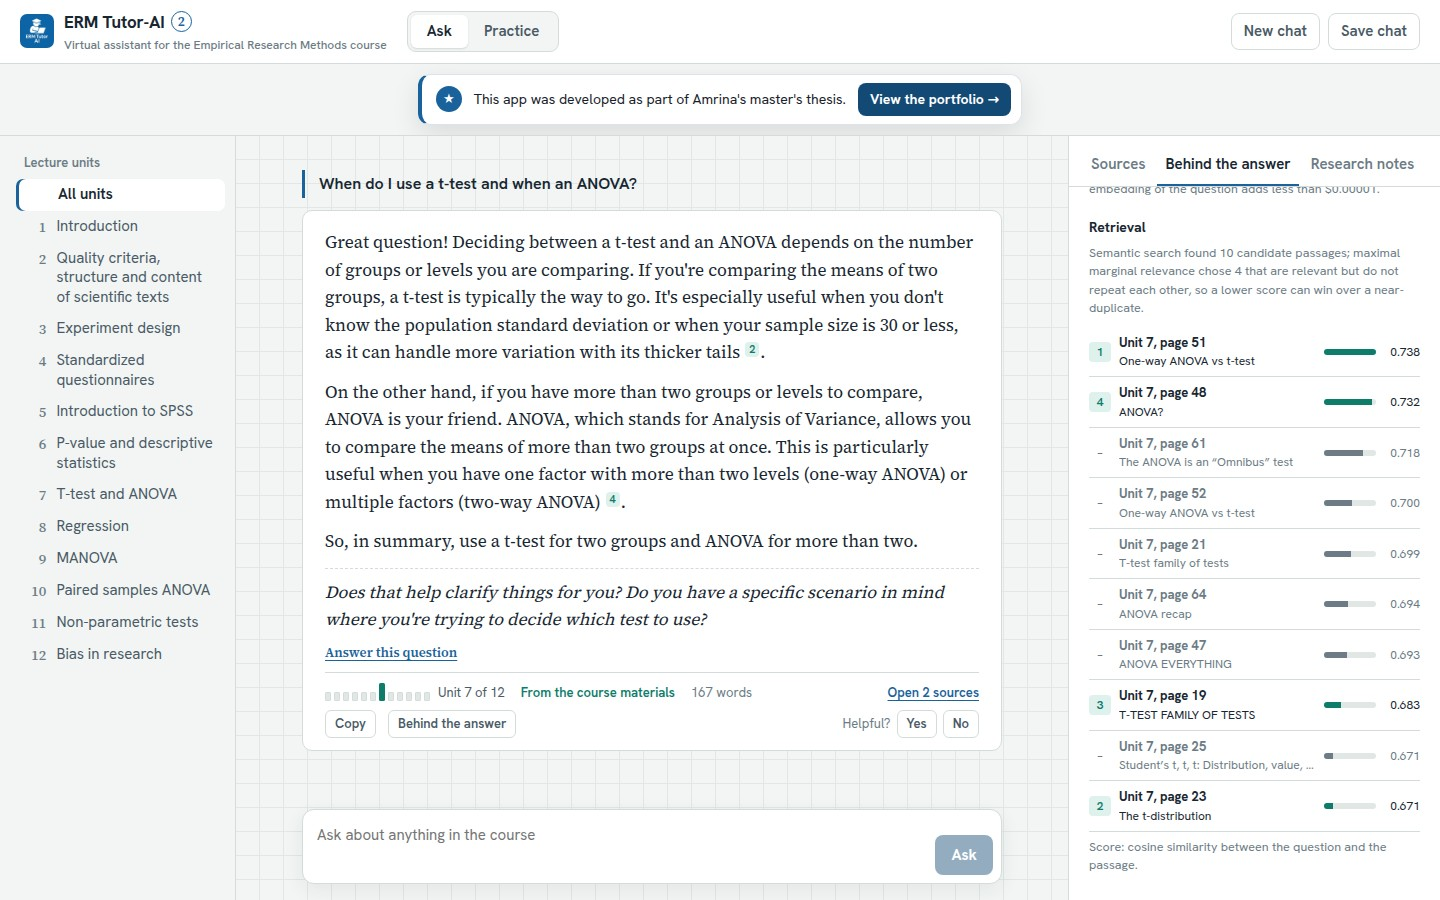
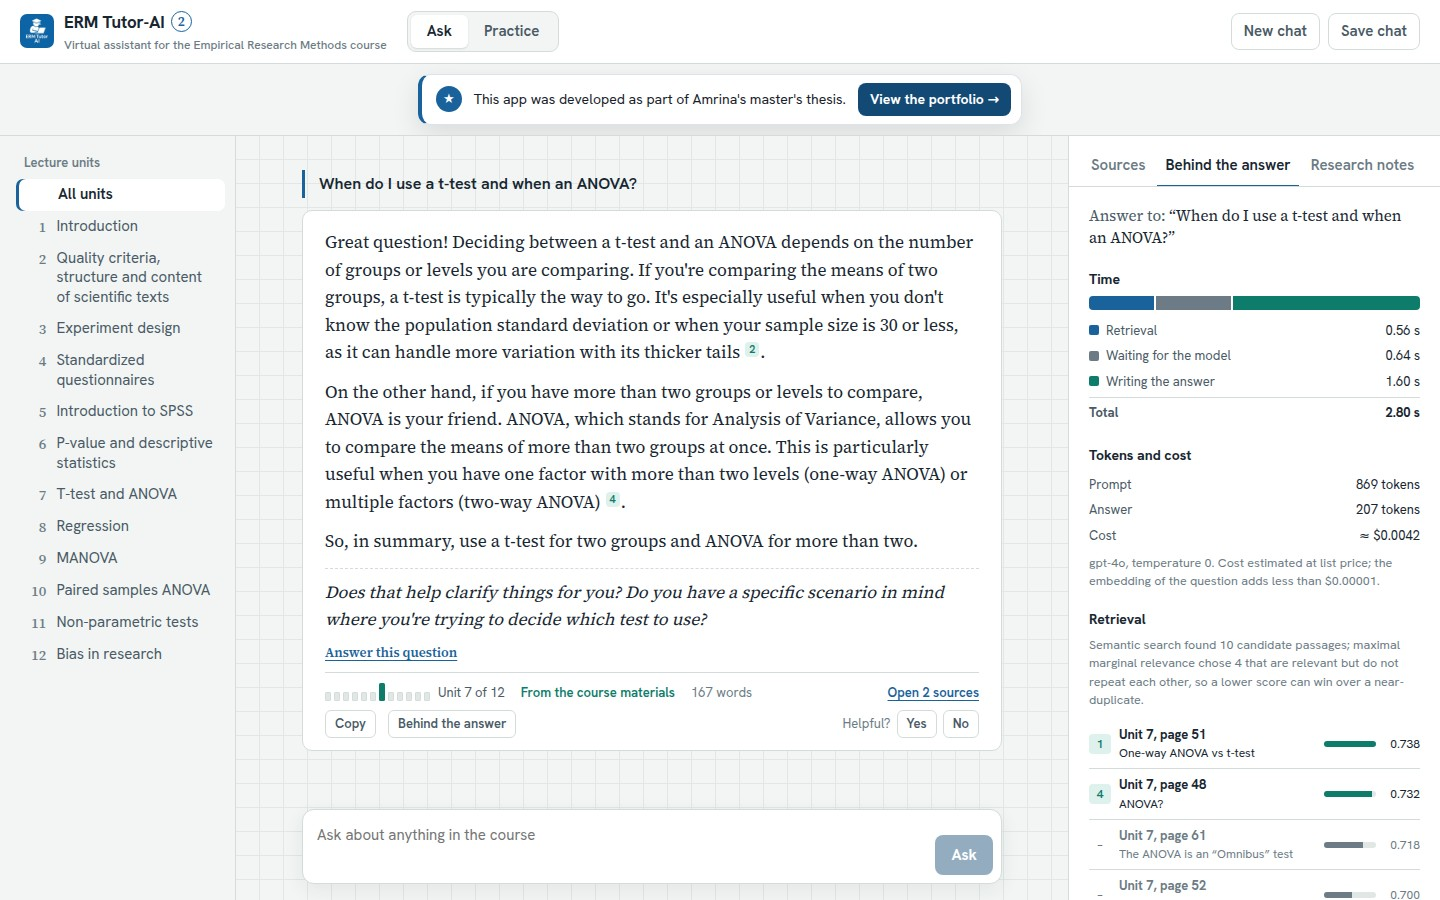
Project page: new features, Behind the answer, results of the automatic check; mobile buttons on one line

Changed region(s): [[0.75, 0.1556, 1.0, 1.0]]

diff --git a/docs/index.html b/docs/index.html
@@ -90,6 +90,8 @@ p { margin: 0 0 14px; }
 .compare tbody th { font-weight: 600; width: 18%; }
 .compare td.v1 { color: var(--ink-2); width: 30%; }
 .compare tr:last-child > * { border-bottom: 0; }
+.checks th { width: auto !important; font-weight: 500; }
+.checks td { font-weight: 700; white-space: nowrap; text-align: right; }
 
 .v1card { display: grid; grid-template-columns: 300px minmax(0, 1fr); gap: 28px; align-items: center; margin-top: 32px; padding: 20px; background: var(--surface); border: 1px solid var(--line); border-radius: 12px; }
 .v1card img { border-radius: 8px; border: 1px solid var(--line); display: block; }
@@ -158,7 +160,7 @@ footer p { margin: 0 0 6px; }
       <h1>ERM Tutor-AI<span class="two" aria-label="version 2">2</span></h1>
       <p class="lead">A virtual assistant for the <em>Empirical Research Methods</em> course. It answers from the twelve lecture units, points every statement to the slide it comes from, and lets students practise with feedback.</p>
       <div class="btns">
-        <a class="btn primary" href="https://erm-tutorai-2.onrender.com/">Try the live app</a>
+        <a class="btn primary" href="open.html">Try the live app</a>
         <a class="btn" href="https://github.com/sayamrina/erm-tutorai-2">View code</a>
         <a class="btn" href="#version-1">See version 1</a>
       </div>
@@ -193,17 +195,19 @@ footer p { margin: 0 0 6px; }
 <section>
   <div class="wrap">
     <h2>What changed from version 1</h2>
-    <p class="sub">Same lecture materials, same model (GPT-4o) and the same tutor rules as the thesis app. Two next steps from the thesis shaped this version: citations at passage level and feedback on the student's own answers.</p>
+    <p class="sub">Same lecture materials, same model (GPT-4o) and the same tutor rules as the thesis app. Two next steps from the thesis shaped this version: citations at passage level and feedback on the student's own answers. An evaluation script now measures it on the 20 thesis questions.</p>
     <table class="compare">
       <thead><tr><th scope="col"></th><th scope="col">Version 1 (thesis)</th><th scope="col">Version 2</th></tr></thead>
       <tbody>
-        <tr><th scope="row">Sources</th><td class="v1">Name of one source file under the answer</td><td class="v2">A numbered citation after each statement; each opens the lecture passage with unit, page and slide title</td></tr>
+        <tr><th scope="row">Sources</th><td class="v1">Name of one source file under the answer</td><td class="v2">A numbered citation after each statement, with a preview on hover; each opens the lecture slide itself, its text, and the lines that share the most words with the cited statement</td></tr>
         <tr><th scope="row">Where an answer comes from</th><td class="v1">Label “course materials” or “general knowledge”</td><td class="v2">The same labels, now based on whether the answer cites a passage, plus a strip of twelve ticks for the units it used</td></tr>
         <tr><th scope="row">Course focus</th><td class="v1">All units</td><td class="v2">All units, or one chosen unit</td></tr>
         <tr><th scope="row">Practice</th><td class="v1">None</td><td class="v2">The tutor writes a question from a lecture slide, the student answers, the feedback gives a verdict and cites the slides to review</td></tr>
         <tr><th scope="row">Follow-up question</th><td class="v1">Inside the answer text</td><td class="v2">Shown separately with a button to answer it; the last two turns go along so the tutor can follow</td></tr>
+        <tr><th scope="row">Behind the answer</th><td class="v1">None</td><td class="v2">The 10 candidate passages with their scores and the 4 that were chosen, time per step, tokens and estimated cost</td></tr>
+        <tr><th scope="row">Practice progress</th><td class="v1">None</td><td class="v2">Verdicts per lecture unit, kept in the browser, as a map of the twelve units</td></tr>
         <tr><th scope="row">Research notes</th><td class="v1">PDF “About this app”</td><td class="v2">Side panel with the evaluation design, a ratings chart, answer length and limits</td></tr>
-        <tr><th scope="row">Also</th><td class="v1">Streamlit chat</td><td class="v2">Streaming answers, save the chat as Markdown, light and dark mode, phone layout</td></tr>
+        <tr><th scope="row">Also</th><td class="v1">Streamlit chat</td><td class="v2">Streaming answers, the chat survives a reload, copy an answer with its sources, helpful buttons, save as Markdown, a start page that wakes the sleeping server, light and dark mode, phone layout</td></tr>
       </tbody>
     </table>
 
@@ -227,11 +231,13 @@ footer p { margin: 0 0 6px; }
     <h2>The interface</h2>
     <p class="sub">Screenshots of the live app with real model answers.</p>
     <figure><img class="shot" src="img/d-answer.jpg" alt="Answer about t-test and ANOVA with numbered citations; the source panel on the right shows the cited lecture passages with unit, page and slide title" loading="lazy">
-      <figcaption>An answer with numbered citations. The source panel shows the four passages the tutor read and which ones it cited.</figcaption></figure>
+      <figcaption>An answer with numbered citations. The source panel shows the cited slide as an image and marks the lines that support the statement.</figcaption></figure>
+    <figure style="margin-top:28px"><img class="shot" src="img/d-behind.jpg" alt="Behind the answer: a time bar for retrieval, waiting and writing, prompt and answer tokens, estimated cost, and the ten candidate passages with similarity scores" loading="lazy">
+      <figcaption>Behind the answer: 2.8 seconds in total, 1,076 tokens, about $0.004. Retrieval found ten candidates; maximal marginal relevance skipped page 52 because it repeats page 51.</figcaption></figure>
     <div class="gallery">
       <figure><img class="shot" src="img/d-practice.jpg" alt="Practice mode: a question on two-way ANOVA, the student's answer, and feedback marked correct with citations" loading="lazy">
-        <figcaption>Practice mode: a question from a unit 7 slide, the student's answer, and feedback with a verdict and the slides to review.</figcaption></figure>
-      <figure><img class="shot" src="img/m-answer.jpg" alt="The app on a phone, answering a question about sphericity" loading="lazy">
+        <figcaption>Practice mode: a question from a unit 7 slide, the student's answer, and feedback with a verdict. The dot next to unit 7 is the saved progress.</figcaption></figure>
+      <figure><img class="shot" src="img/m-answer.jpg" alt="The app on a phone, answering when to use a t-test or an ANOVA" loading="lazy">
         <figcaption>On a phone.</figcaption></figure>
     </div>
   </div>
@@ -246,7 +252,8 @@ footer p { margin: 0 0 6px; }
         <li><b>Index the course</b><span>The 12 lecture PDFs are read page by page and split into 354 chunks of up to 1,500 characters. Each chunk keeps its unit, page and slide title.</span></li>
         <li><b>Retrieve</b><span>The question is embedded with OpenAI text-embedding-3-small; the 4 most relevant and varied passages are chosen from 10 candidates (maximal marginal relevance), optionally within one unit.</span></li>
         <li><b>Answer and cite</b><span>GPT-4o (temperature 0) gets the numbered passages and the version 1 tutor prompt: course materials first, general methods knowledge second, a polite refusal for unrelated questions. It cites passages as [1], [2].</span></li>
-        <li><b>Show the evidence</b><span>The answer streams to the browser; each number opens its passage in the source panel.</span></li>
+        <li><b>Show the evidence</b><span>The answer streams to the browser; each number opens its slide, rendered from the PDF at build time. The lines that support a statement are found by word overlap in the browser, without another model call.</span></li>
+        <li><b>Report the trace</b><span>With each answer the backend sends the retrieval candidates, the time per step and the token usage, priced at list price.</span></li>
       </ol>
       <div>
         <table class="stack">
@@ -256,8 +263,8 @@ footer p { margin: 0 0 6px; }
             <tr><td>API</td><td>–</td><td>FastAPI, server-sent events</td></tr>
             <tr><td>Model</td><td>GPT-4o</td><td>GPT-4o</td></tr>
             <tr><td>Retrieval</td><td>LangChain, ChromaDB</td><td>NumPy (cosine, MMR)</td></tr>
-            <tr><td>PDF parsing</td><td>Markitdown</td><td>pdfminer.six, per page</td></tr>
-            <tr><td>Delivery</td><td>Streamlit Cloud</td><td>pytest, GitHub Actions, Docker, Render</td></tr>
+            <tr><td>PDF parsing</td><td>Markitdown</td><td>pdfminer.six, per page; pypdfium2 for slide images</td></tr>
+            <tr><td>Delivery</td><td>Streamlit Cloud</td><td>pytest (16 tests), evaluation script, GitHub Actions, Docker, Render</td></tr>
           </tbody>
         </table>
         <p class="note" style="margin-top:14px">Version 2 calls the OpenAI API directly because streaming and numbered citations need control over the prompt and the passages. Without an API key it runs in a demo mode with keyword search over the same passages.</p>
@@ -268,8 +275,34 @@ footer p { margin: 0 0 6px; }
 
 <section>
   <div class="wrap">
+    <h2>Checking version 2</h2>
+    <p class="sub">An evaluation script asks the live app the 20 evaluation questions of the thesis, each in a fresh conversation, and three off-topic questions, then measures what can be checked without a human rater. Run on 3 November 2026.</p>
+    <div class="eval">
+      <table class="compare checks">
+        <tbody>
+          <tr><th scope="row">Answers based on the course materials</th><td>20 of 20</td></tr>
+          <tr><th scope="row">Off-topic questions declined</th><td>3 of 3</td></tr>
+          <tr><th scope="row">A passage from the question's unit cited</th><td>18 of 20</td></tr>
+          <tr><th scope="row">Statements with a citation</th><td>24%</td></tr>
+          <tr><th scope="row">Cited statements sharing key words with their slide</th><td>96%</td></tr>
+          <tr><th scope="row">Answer length</th><td>190 ± 53 words</td></tr>
+          <tr><th scope="row">Median time to the full answer</th><td>3.0 s</td></tr>
+          <tr><th scope="row">Cost of the whole run</th><td>about $0.10</td></tr>
+        </tbody>
+      </table>
+      <div>
+        <p class="reported">The tutor stays in the course and cites slides that match what it says. It cites only about one statement in four.</p>
+        <p>The prompt, kept from the thesis app, allows general research-methods knowledge next to the slides, and the model often cites once per paragraph. Raising coverage would mean changing the tutor's rules, which version 2 deliberately keeps. Word overlap is a cheap proxy for support, not a judgement of correctness, and no human has rated version 2 yet.</p>
+        <p class="note"><a href="https://github.com/sayamrina/erm-tutorai-2/blob/main/backend/eval/results/2026-11-03.md">Full report per question</a> and <a href="https://github.com/sayamrina/erm-tutorai-2/blob/main/backend/eval/run_eval.py">the script</a>.</p>
+      </div>
+    </div>
+  </div>
+</section>
+
+<section>
+  <div class="wrap">
     <h2>What the thesis found</h2>
-    <p class="sub">The evaluation is about version 1. Two course instructors rated the answers of ERM Tutor-AI and of ChatGPT-4o (without the course materials) to 20 questions from the weekly assignments, on a 7-point rubric adapted from Lee (2024). Version 2 has not been evaluated yet.</p>
+    <p class="sub">The evaluation is about version 1. Two course instructors rated the answers of ERM Tutor-AI and of ChatGPT-4o (without the course materials) to 20 questions from the weekly assignments, on a 7-point rubric adapted from Lee (2024). Instructors have not rated version 2 yet.</p>
     <div class="eval">
       <div>
         <p class="reported">Instructors rated ERM Tutor-AI <b>6.33</b> on average, against <b>6.00</b> for ChatGPT-4o (two-way ANOVA, p = .038). Its answers were shorter: <b>198</b> against 280 words on average.</p>
@@ -279,7 +312,7 @@ footer p { margin: 0 0 6px; }
         <ul class="lim">
           <li>20 questions and two raters, who were not blind to the system.</li>
           <li>No students took part, so the study measured answer quality, not learning.</li>
-          <li>Version 2's citations and practice feedback have not been evaluated. A study with students could compare both versions: do page-level citations change how often students check an answer and how much they trust it?</li>
+          <li>Version 2 has only been checked automatically. A study with students could compare both versions: do page-level citations change how often students check an answer and how much they trust it?</li>
         </ul>
       </div>
       <div class="panel">

diff --git a/frontend/src/styles.css b/frontend/src/styles.css
@@ -299,7 +299,7 @@ a { color: var(--blue); }
   .brand-text > span { font-size: 16px; }
   .brand-text em { font-size: 11px; }
   .top-actions { order: 3; width: 100%; margin: 0; }
-  .top-actions .ghost { flex: 1; }
+  .top-actions .ghost { flex: 1; white-space: nowrap; padding: 6px 8px; font-size: 14px; }
   .project-popup { flex-wrap: wrap; margin: 8px 16px; }
   .layout { grid-template-columns: minmax(0, 1fr); grid-template-rows: auto minmax(0, 1fr); }
   .syllabus { border-right: 0; border-bottom: 1px solid var(--line); padding: 8px 16px; overflow: visible; }
